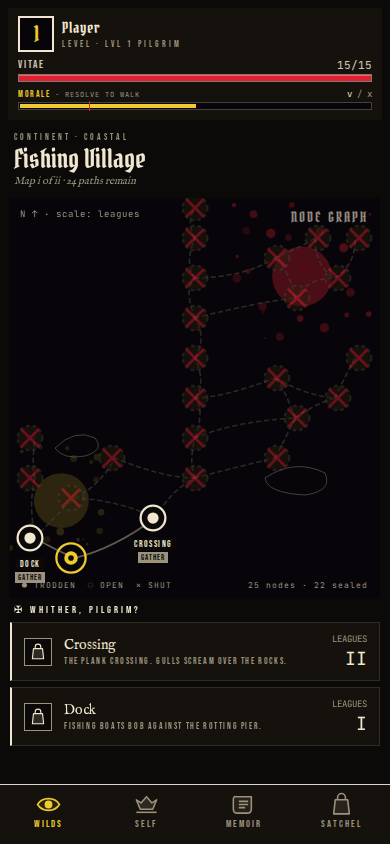
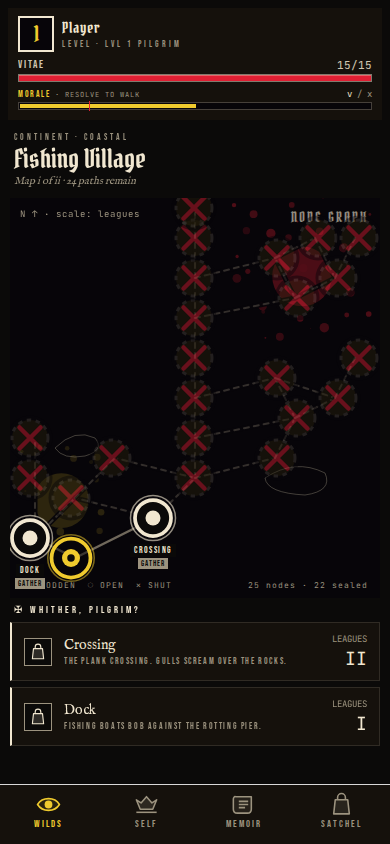
audit: recapture SELF (D&D sheet) + map + portrait; add hazard board & dialogue
Recaptured the revamped SELF tab (now a one-screen character sheet) and
the exploration map (bigger nodes + connecting paths); the in-combat
enemy portrait now shows the bespoke archetype. Added newly-captured
hazard route-select board and the dialogue screen. REPORT.md updated;
follow-ups now centre on capturing the remaining minigame boards via
the e2e harness.

diff --git a/screenshots/audit-2026-06/REPORT.md b/screenshots/audit-2026-06/REPORT.md
@@ -52,25 +52,31 @@ and a glowing call-to-action.
 |---|---|
 | <img src="before/00-title.png" width="300"> | <img src="after/00-title.png" width="300"> |
 
-### Exploration (WILDS)
-Global palette lift: brighter gold tab + labels, richer vitae red, crisper
-parchment headings. The map reads with more contrast.
+### Exploration (WILDS) — **map revamp**
+Bigger, more-defined nodes (each glyph now sits on a backing disc with a bolder
+rim so it reads as a distinct *stop*); straight, road-cased node-to-node edges
+(replacing the faint wobbly curves) so the graph reads as a connected route.
+Still pinch/pan scrollable. Plus the global palette lift.
 
 | Before | After |
 |---|---|
 | <img src="before/01-exploration.png" width="300"> | <img src="after/01-exploration.png" width="300"> |
 
-### Character / SELF (top + scrolled)
-Stronger accent contrast on stat values, derived table, and the paper-doll
-figure.
+### Character / SELF — **complete revamp → D&D character sheet**
+Was a long full-width scroll with a wasteful full-width DERIVED table. Now a
+proper character sheet that **fits one screen, no scrolling**: hooded-pilgrim
+**portrait bust top-left** (new `PlayerPortrait`), identity + alignment + XP,
+level box top-right; boxed **ABILITIES**; **DERIVED and SAVES & TESTS side-by-side**
+in two columns; collapsible MORALE LEDGER; **WORN & WIELDED removed** (equipment
+lives in SATCHEL). The "before (mid)" shot below shows how far it used to scroll.
 
-| Before (top) | After (top) |
+| Before (top) | After (full sheet, one screen) |
 |---|---|
 | <img src="before/02-character-top.png" width="300"> | <img src="after/02-character-top.png" width="300"> |
 
-| Before (mid) | After (mid) |
+| Before (had to scroll this far) | — |
 |---|---|
-| <img src="before/03-character-mid.png" width="300"> | <img src="after/03-character-mid.png" width="300"> |
+| <img src="before/03-character-mid.png" width="300"> | |
 
 ### Satchel
 | Before | After |
@@ -108,6 +114,10 @@ tappable. Plus the global palette lift on selection gold + vitae red.
 | Before (Mind clipped) | After (all three fit) |
 |---|---|
 | <img src="before/07-combat-fight.png" width="300"> | <img src="after/07-combat-fight.png" width="300"> |
+
+> The top-left enemy portrait is now the **bespoke archetype figure** keyed to
+> the foe (a rat for the Salt-Gnaw Rat), matching the prelude — not the old
+> generic hooded silhouette.
 
 ### Combat — DO (action menu)
 Stance locked in (collapses to a summary line); the Attack/Defend/Skill/Item
@@ -155,6 +165,14 @@ new art style (was a placeholder).
 |---|---|
 | <img src="before/13-hazard.png" width="300"> | <img src="after/13-hazard.png" width="300"> |
 
+### Hazard board + Dialogue (newly captured)
+The hazard route-select board (colored route cards popping under the new palette)
+and the dedicated dialogue screen — neither had an after-capture before.
+
+| Hazard board | Dialogue |
+|---|---|
+| <img src="after/14-hazard-board.png" width="300"> | <img src="after/19-dialogue.png" width="300"> |
+
 ---
 
 ## Theme showcase (dev switcher)
@@ -179,13 +197,12 @@ This pass landed the **foundation** (theming, global palette pop) + the
 every screen, but these had no individual layout/art pass yet — prioritised for
 the next round:
 
-- **Hand-tuned art for marquee enemies** — each foe now gets an archetype
-  illustration; the named bosses / signature fights could earn fully bespoke
-  one-off drawings beyond their archetype.
-- **In-combat enemy portrait** — the small avatar in `CombatEnemyPanel` is still
-  the generic hooded silhouette; it could reuse the archetype figures.
-- **Per-screen hierarchy passes** for Satchel, Memoir, Character, and the
-  event/minigame screens (rest, gather, treasure, quest, gathering, cache,
-  dialogue, village, cutscene).
+- **Capture the remaining minigame boards** — gathering, rest, loot-cache, and
+  the quest board need proper e2e-style capture (seed injection + intro
+  dismissal, like `gathering-e2e.mjs`); the quick dev-trigger lands on an empty
+  event fallback. Village + cutscene also still lack after-captures.
+- **Hand-tuned art for marquee bosses** — beyond their archetype illustration.
+- **Per-screen hierarchy passes** for Satchel + Memoir (not yet individually
+  reworked — they have the global palette lift only).
 - **Tab-bar icon refresh** — serviceable today; could gain filled/glow active
   states.
